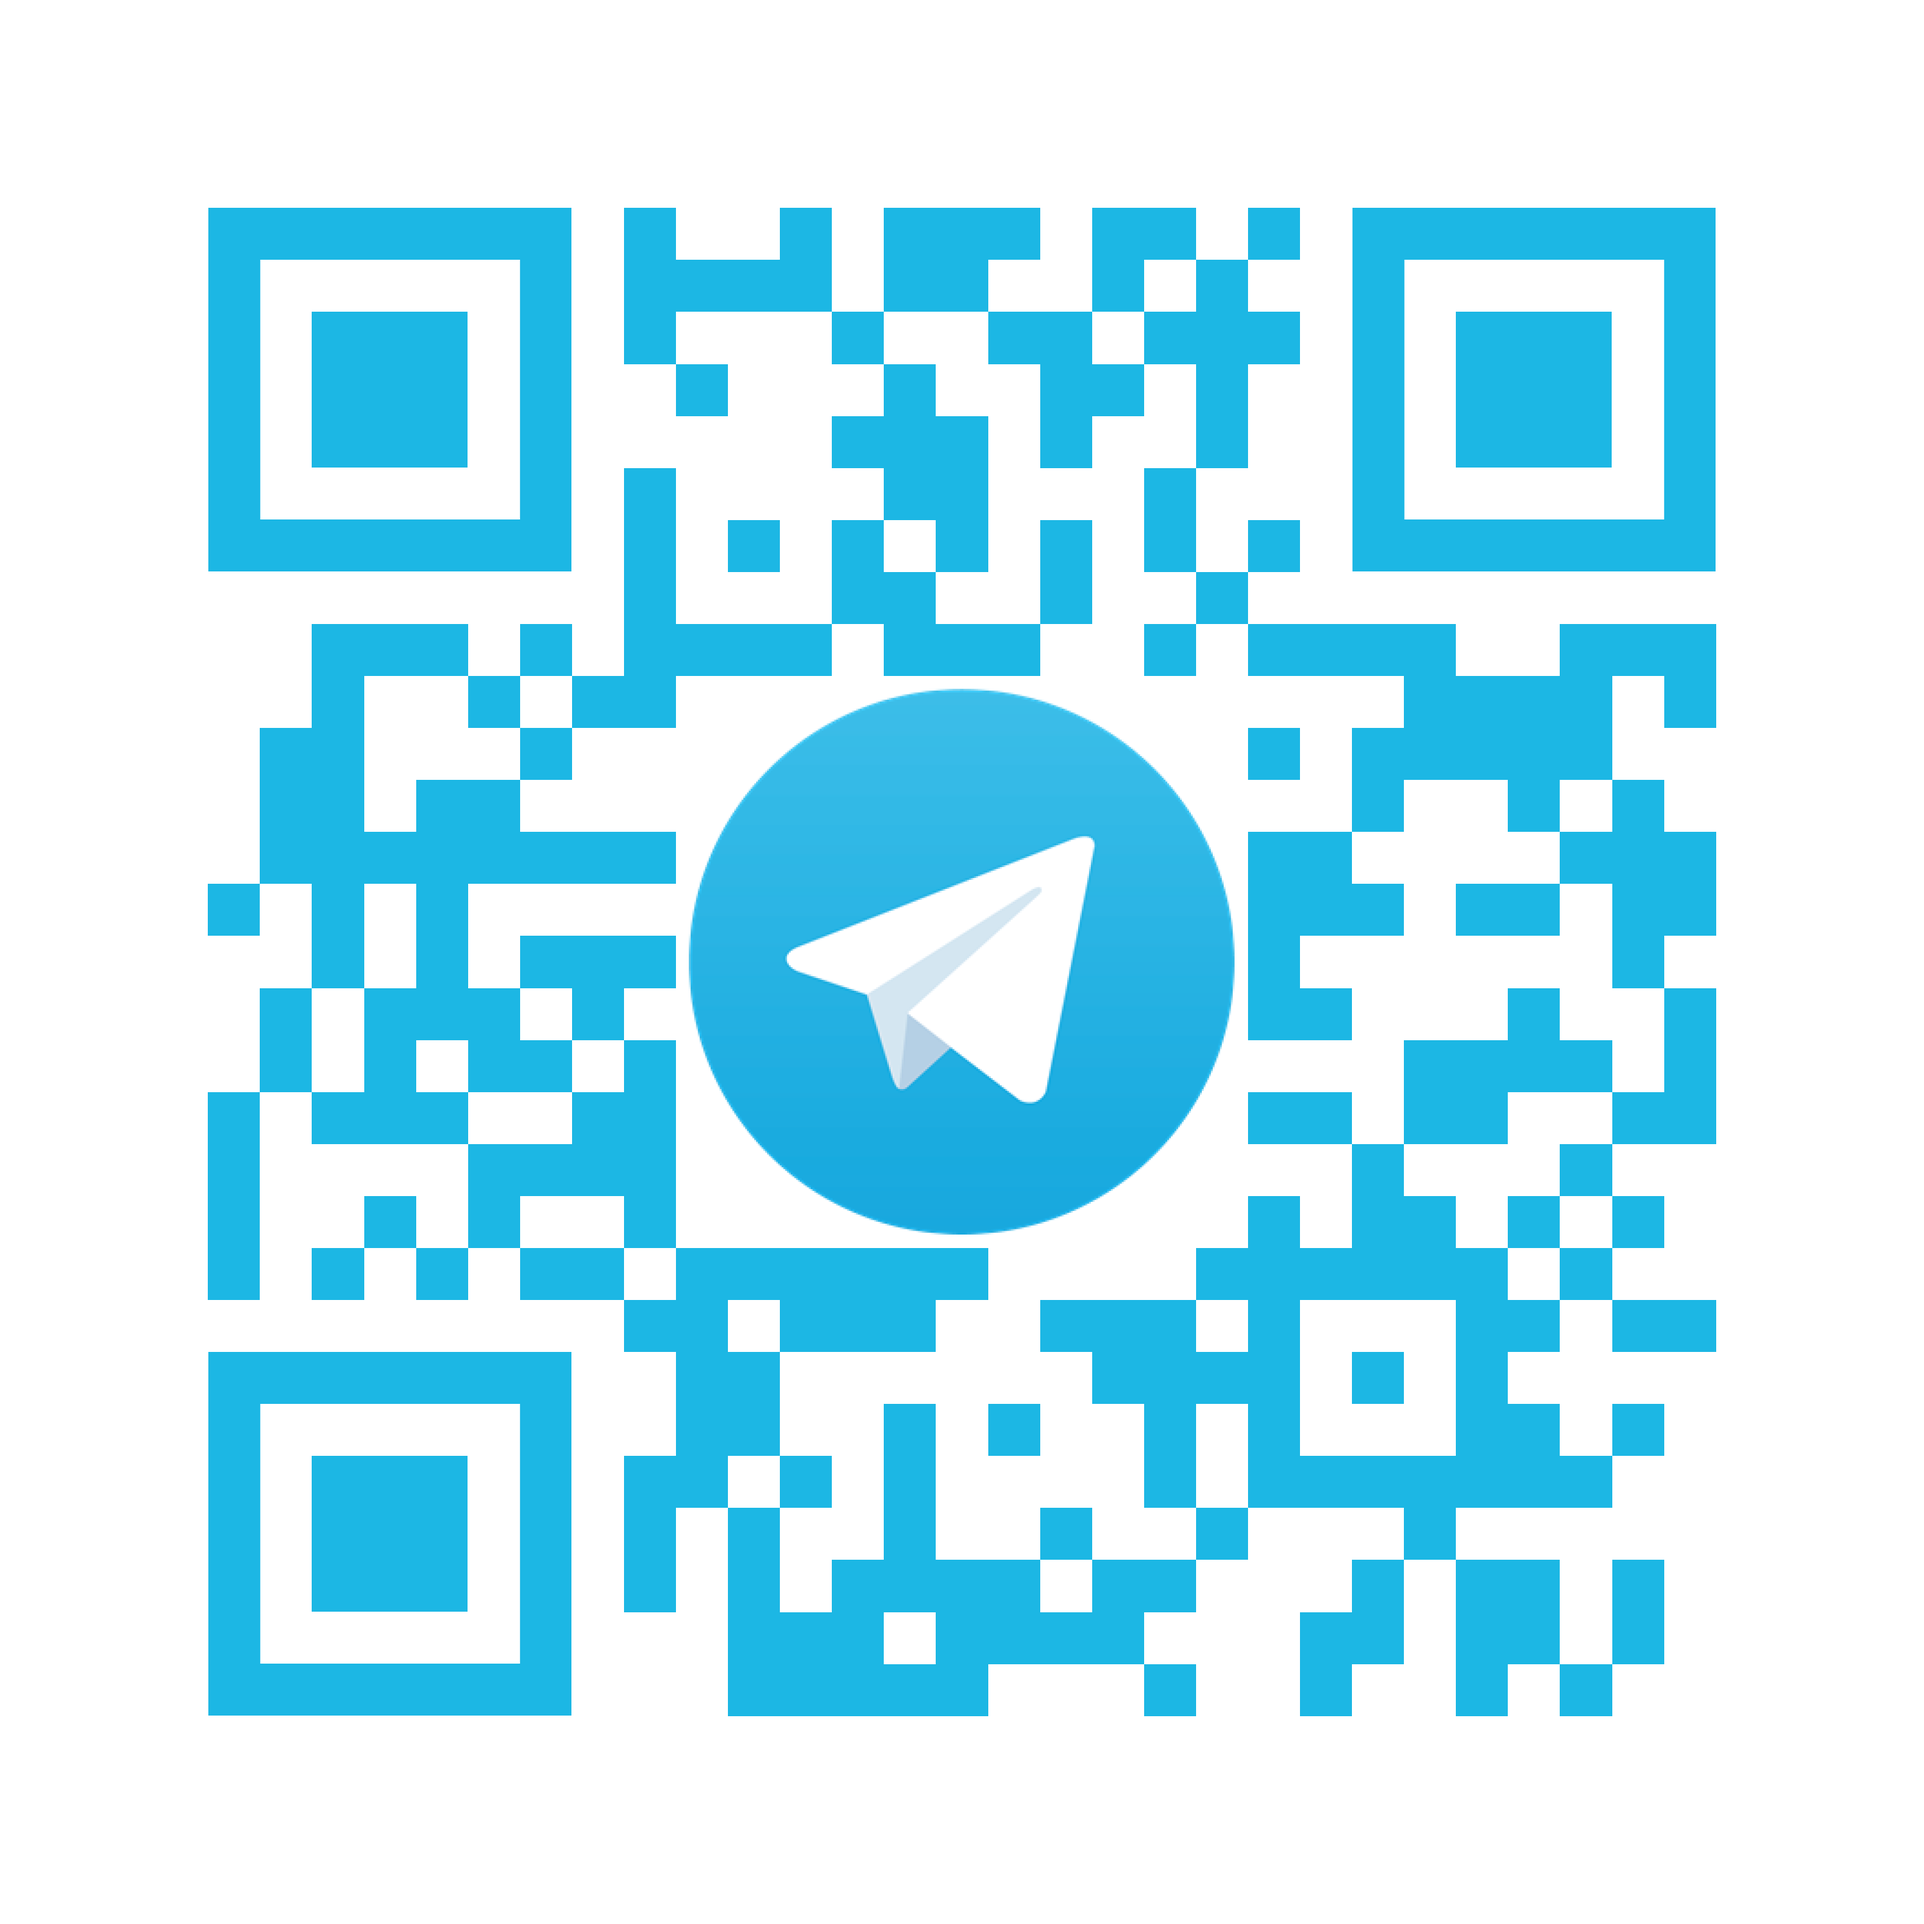
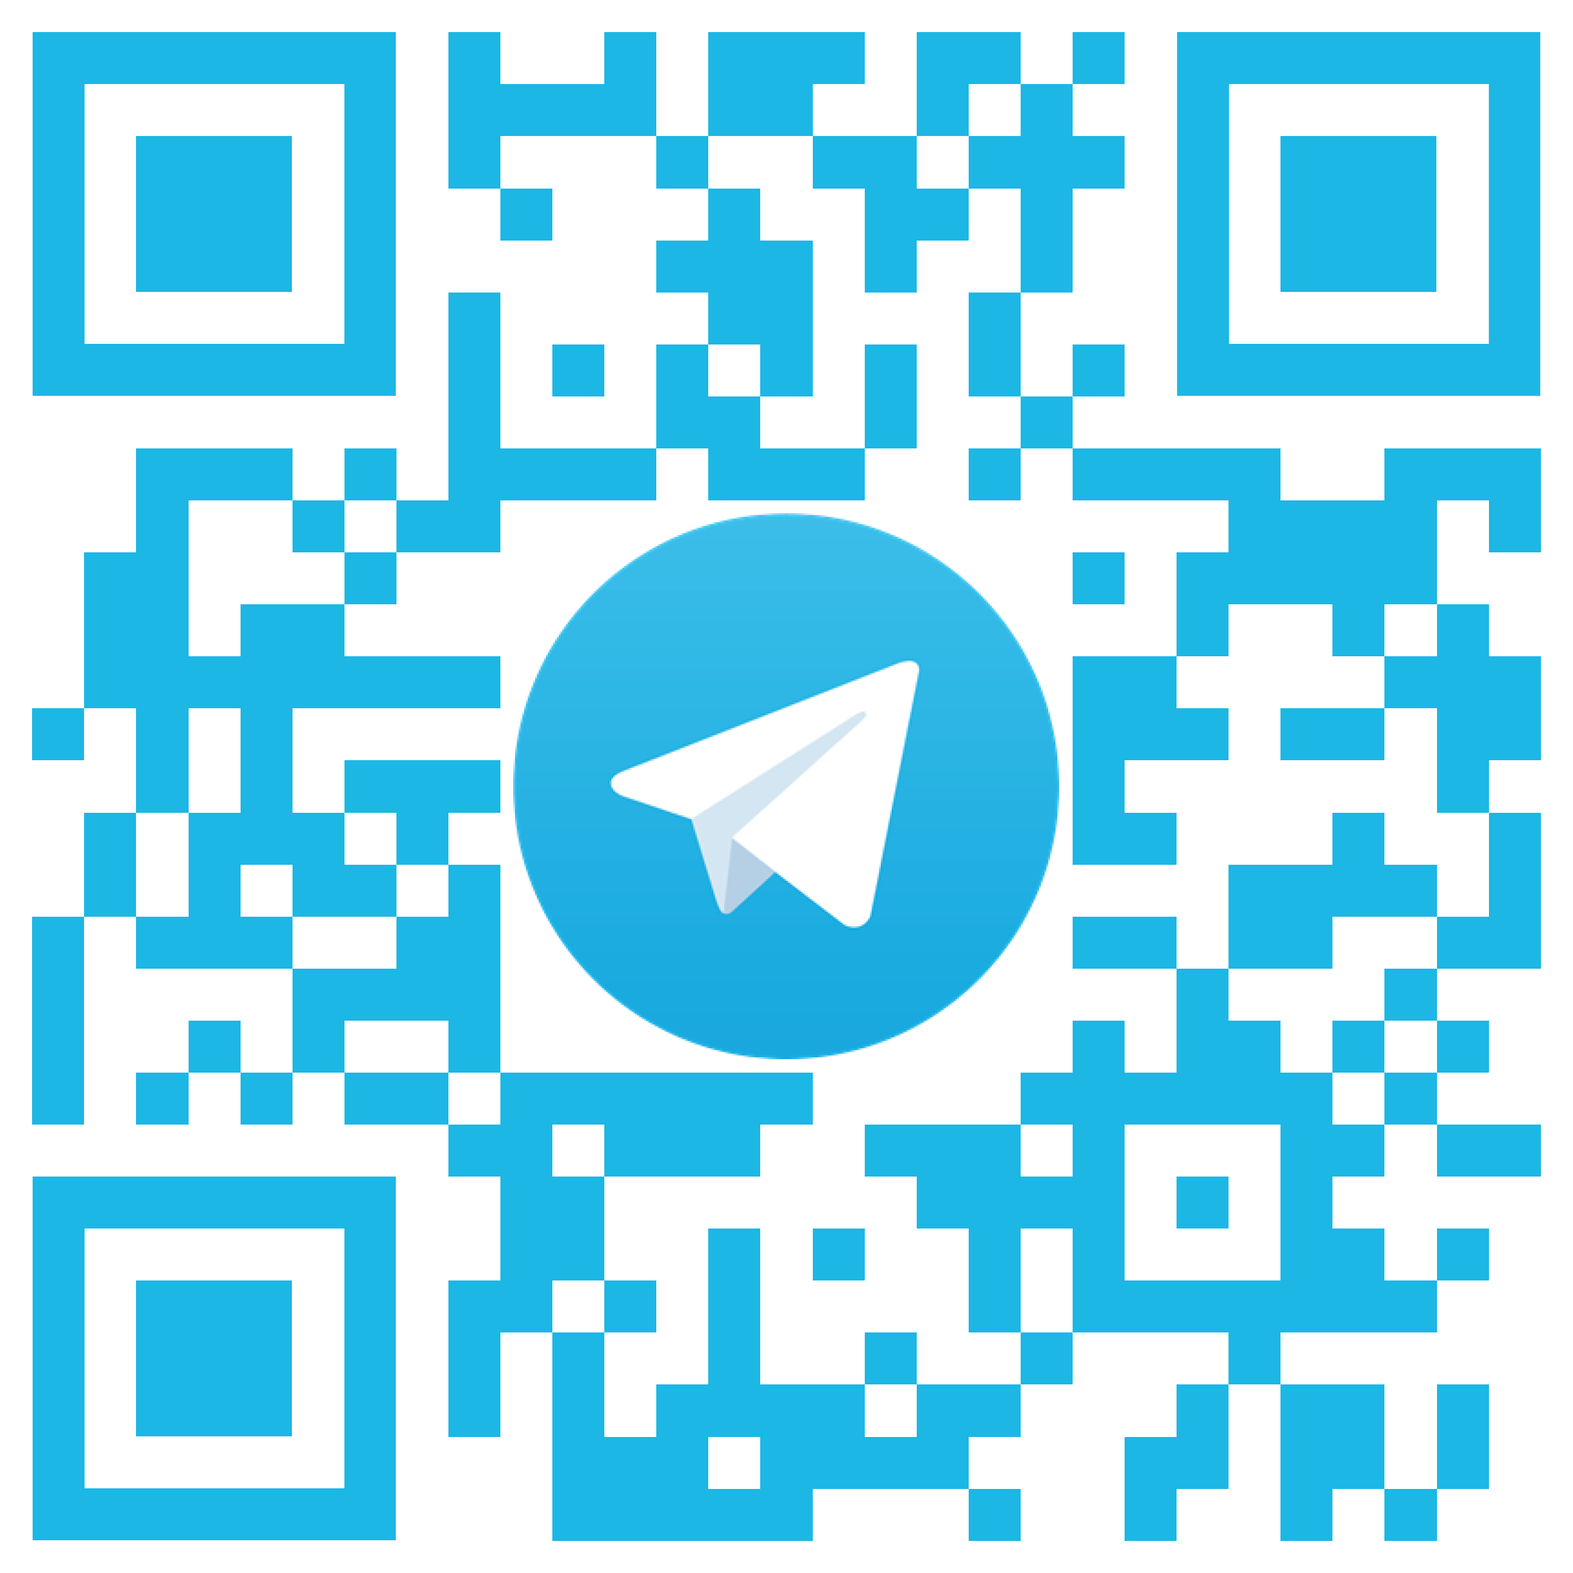
Fix ratio, telegram slide && remove quiz

diff --git a/index.html b/index.html
@@ -5,7 +5,7 @@
 	<meta charset="utf-8">
 	<meta http-equiv="x-ua-compatible" content="ie=edge">
 	<meta name="viewport" content="width=device-width, initial-scale=1">
-	<link rel="stylesheet" href="shower/themes/ribbon/styles/screen-16x10.css">
+	<link rel="stylesheet" href="shower/themes/ribbon/styles/screen-4x3.css">
 	<style>
 		.slide::after {
 			display: none;
@@ -63,11 +63,11 @@
 		</div>
 	</section>
 	
-	<section class="slide white">
+	<!-- <section class="slide white">
 		<img src="pictures/qr-quiz.png" alt="" class="cover">
-	</section>
+	</section> -->
 	
-	<section class="slide white quiz">
+	<!-- <section class="slide white quiz">
 		<style>
 			.quiz {
 				width: 100%;
@@ -75,15 +75,23 @@
 				padding: 0;
 			}
 		</style>
-		<iframe src="https://quiz.css-minsk-js.by/presentation/" width="100%" height="100%"></iframe>
-	</section>
+		<iframe src="https://quiz.css-minsk-js.by/" width="100%" height="100%"></iframe>
+	</section> -->
 	
 	<section class="slide white quiz" id="qwer">
 		<h2 class="shout">#CSSMinskJS</h2>
 	</section>
 	
 	<section class="slide white">
-		<img src="pictures/qr-telegram.png" alt="" class="cover">
+		<style>
+			.social-link {
+				font-size: 40px;
+			}
+		</style>
+		<div class="centering">
+			<img src="pictures/qr-telegram.png" alt="" class="" width="55%">
+			<a href="t.me/CSSMinskJS" title="" class="social-link">t.me/CSSMinskJS</a>
+		</div>
 	</section>
 	
 	<section class="slide white">
